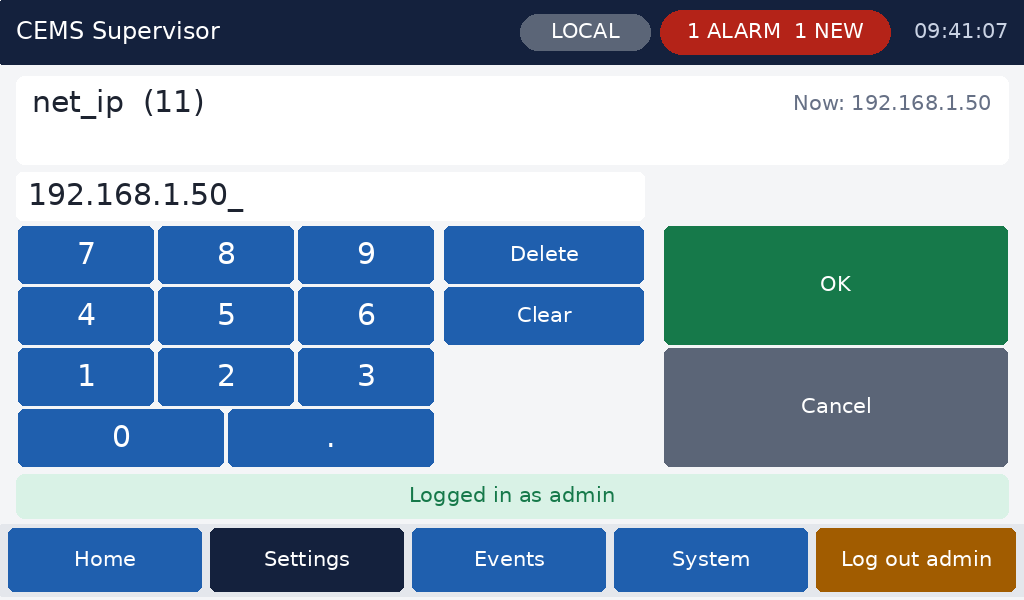
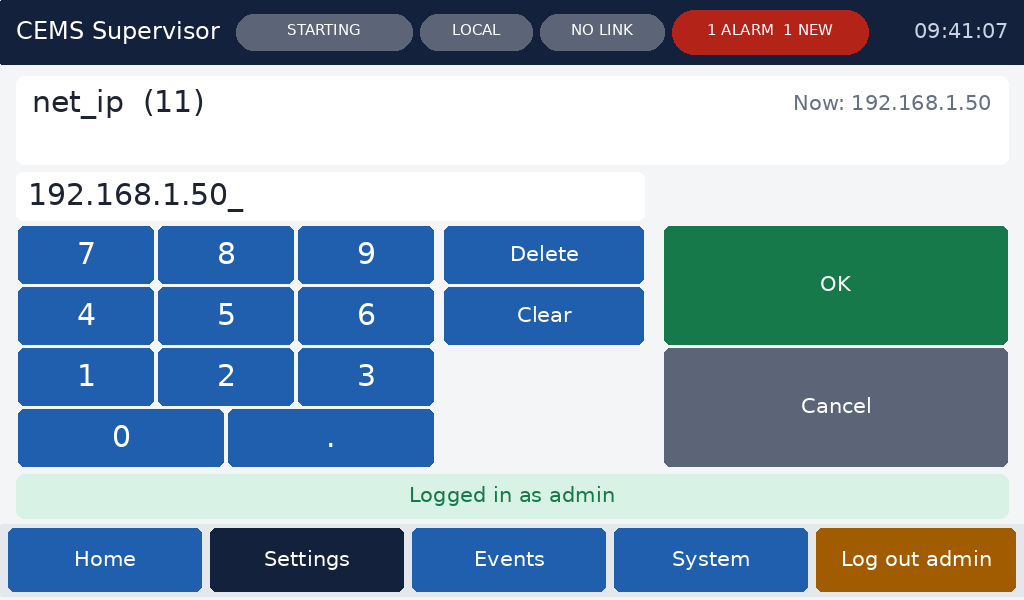
Touchscreen: instrument state, supervisory link and value quality (CIP-21.2, 21.4, 21.5)
Header (UI_CONVENTIONS 3): the state pill (plat_state_name, coloured by
state), LOCAL/REMOTE, LINK OK / LINK LOST / NO LINK from plat_link_age_ms
against comms_timeout, then the alarm pill and the clock.

Values (UI_CONVENTIONS 4): home tiles, settings rows and application value
widgets ask param_quality(); a value that is not valid is greyed ("----"
when unavailable) with its quality word under it in the word's colour.

t_state_quality covers READY/MEASURING, unavailable, valid, stale, out of
range, the settings row and the three link states. Screenshots regenerated
for the new header.

Claude-Session: https://claude.ai/code/session_01AbDXgecyAmn6R8hhL7qjD2

Changed region(s): [[0.2188, 0.0, 0.875, 0.09]]

diff --git a/platform/ui/ui.c b/platform/ui/ui.c
@@ -21,6 +21,7 @@
 #include "plat_health.h"
 #include "ui_app.h"
 #include "iobus.h"
+#include "plat_state.h"
 
 /* ---------------- layout and colours (1024 x 600) ---------------- */
 #define W 1024
@@ -616,16 +617,57 @@ static void button(uint8_t tag, int16_t x, int16_t y, int16_t w, int16_t h, cons
     eve_tag(E, 0);
 }
 
+/* UI_CONVENTIONS 3 and 4: the instrument state, the supervisory link and a value's quality */
+static uint32_t state_color(uint8_t st) {
+    switch (st) {
+    case PLAT_ST_READY: case PLAT_ST_MEASURING: return C_OK;
+    case PLAT_ST_WARMING_UP: case PLAT_ST_MAINTENANCE: case PLAT_ST_CALIBRATION: return C_WARN;
+    case PLAT_ST_FAULT: case PLAT_ST_SAFE_MODE: return C_BAD;
+    default: return 0x5B6577u;
+    }
+}
+enum { LINK_NONE, LINK_OK, LINK_LOST };
+static int link_state(uint32_t now) {
+    plat_val_t v;
+    uint32_t to = param_read(PARAM_ID_COMMS_TIMEOUT_S, &v) ? v.u : 0u, age = plat_link_age_ms(now);
+    if (!to || age == UINT32_MAX) return LINK_NONE;
+    return age > to * 1000u ? LINK_LOST : LINK_OK;
+}
+static uint32_t q_color(uint8_t q) {
+    return q == PLAT_Q_RANGE || q == PLAT_Q_FAULT ? C_BAD : q == PLAT_Q_UNAVAILABLE ? C_GREY : C_WARN;
+}
+/* A shown value with its quality, centred on cy: when it is not valid the number is greyed
+ * ("----" when unavailable) and moves up, with the quality word under it. idx: UW_NO_INDEX
+ * (= PLAT_MEAS_NO_INDEX) for a scalar. */
+static void qvalue(int16_t x, int16_t cy, int16_t f, uint16_t id, uint16_t idx, const char *v) {
+    uint8_t q = param_quality(id, idx);
+    if (q == PLAT_Q_VALID) { color(C_INK); text(x, cy, f, OPT_CENTERY, v); return; }
+    int16_t hv = f == F_HUGE ? 49 : f == F_BIG ? 36 : 25;          /* the ROM fonts' cell heights */
+    int16_t vc = (int16_t)(cy - 11);
+    color(C_GREY); text(x, vc, f, OPT_CENTERY, q == PLAT_Q_UNAVAILABLE ? "----" : v);
+    color(q_color(q)); text(x, (int16_t)(vc + hv / 2 + 11), f >= F_BIG ? F_TEXT : F_SMALL, OPT_CENTERY, plat_quality_name(q));
+}
+
 static void header(uint32_t now) {
     box(0, 0, W, HEAD_H, C_HEAD, 1);
     color(0xFFFFFFu);
     text(16, HEAD_H / 2, 29, OPT_CENTERY, U.cfg && U.cfg->product ? U.cfg->product : "CEMS Supervisor");
-    bool remote = param_ctrl_mode() == PARAM_MODE_REMOTE;
-    int16_t x = 520;
-    box(x, 14, 130, 36, remote ? C_OK : 0x5B6577u, 18);
+    uint8_t st = plat_state();
+    int16_t x = 236;
+    box(x, 14, 176, 36, state_color(st), 18);
     color(0xFFFFFFu);
-    text((int16_t)(x + 65), 32, F_TEXT, OPT_CENTER, remote ? "REMOTE" : "LOCAL");
-    x = (int16_t)(x + 140);
+    text((int16_t)(x + 88), 32, F_SMALL, OPT_CENTER, plat_state_name(st));
+    x = (int16_t)(x + 184);
+    bool remote = param_ctrl_mode() == PARAM_MODE_REMOTE;
+    box(x, 14, 112, 36, remote ? C_OK : 0x5B6577u, 18);
+    color(0xFFFFFFu);
+    text((int16_t)(x + 56), 32, F_SMALL, OPT_CENTER, remote ? "REMOTE" : "LOCAL");
+    x = (int16_t)(x + 120);
+    int ls = link_state(now);
+    box(x, 14, 124, 36, ls == LINK_OK ? C_OK : ls == LINK_LOST ? C_BAD : 0x5B6577u, 18);
+    color(0xFFFFFFu);
+    text((int16_t)(x + 62), 32, F_SMALL, OPT_CENTER, ls == LINK_OK ? "LINK OK" : ls == LINK_LOST ? "LINK LOST" : "NO LINK");
+    x = (int16_t)(x + 132);
     alarm_summary_t as;
     alarm_summary(&as);
     if (as.shown) {                                   /* one pill for every alarm: tap for the list */
@@ -634,15 +676,14 @@ static void header(uint32_t now) {
         else snprintf(a, sizeof a, "%u ALARM%s", as.active, as.active == 1 ? "" : "S");
         uint32_t c = !as.worst_unacked ? 0x5B6577u : as.worst >= AL_SEV_ALARM ? C_BAD : as.worst == AL_SEV_WARNING ? C_WARN : 0x5B6577u;
         eve_tag(E, T_ALARMS);
-        box(x, 10, 230, 44, U.pressed == T_ALARMS ? C_PRESS : c, 22);
-        color(0xFFFFFFu); text((int16_t)(x + 115), 32, F_TEXT, OPT_CENTER, a);
+        box(x, 10, 196, 44, U.pressed == T_ALARMS ? C_PRESS : c, 22);
+        color(0xFFFFFFu); text((int16_t)(x + 98), 32, F_SMALL, OPT_CENTER, a);
         eve_tag(E, 0);
     }
     char t[16];
     snprintf(t, sizeof t, "%02u:%02u:%02u", RTC_Time.Hours, RTC_Time.Minutes, RTC_Time.Seconds);
     color(0xC9D2E3u);
     text(W - 16, HEAD_H / 2, F_TEXT, OPT_CENTERY | OPT_RIGHTX, RTC_Date.Year >= 2000 ? t : "--:--:--");
-    (void)now;
 }
 
 static void nav(void) {
@@ -671,8 +712,7 @@ static void draw_home(void) {
         text((int16_t)(x + 16), (int16_t)(y + 12), F_TEXT, 0, d ? d->name : "?");
         char v[64] = "-";
         if (d) fmt_value(d, v, sizeof v);
-        color(C_INK);
-        text((int16_t)(x + 16), (int16_t)(y + 56), F_HUGE, 0, v);
+        qvalue((int16_t)(x + 16), (int16_t)(y + 81), F_HUGE, c->home_ids[k], UW_NO_INDEX, v);
     }
     int16_t y = (int16_t)(BODY_Y + (n > 3 ? 280 : n ? 140 : 10));
     box(16, y, 992, 110, C_CARD, 8);
@@ -703,7 +743,7 @@ static void draw_params(void) {
         color(C_INK);  text(110, (int16_t)(y + ROW_H / 2), F_TEXT, OPT_CENTERY, d->name);
         fmt_value(d, b, sizeof b);
         if (strlen(b) > 22) strcpy(b + 19, "...");
-        text(440, (int16_t)(y + ROW_H / 2), F_TEXT, OPT_CENTERY, b);
+        qvalue(440, (int16_t)(y + ROW_H / 2), F_TEXT, d->id, UW_NO_INDEX, b);
         color(can ? C_ACCENT : C_GREY);
         text(880, (int16_t)(y + ROW_H / 2), F_SMALL, OPT_CENTERY | OPT_RIGHTX, can ? "Change >" : (d->flags & PF_RO) ? "read only" : (d->flags & PF_DEV) ? "developer" : lvl_name(d->level));
         eve_tag(E, 0);
@@ -1308,7 +1348,8 @@ static void draw_app(void) {
             char v[64] = "-";
             if (d) { if (w->index != UW_NO_INDEX) fmt_elem(d, w->index, v, sizeof v); else fmt_value(d, v, sizeof v); }
             if (strlen(v) > 14) strcpy(v + 11, "...");
-            color(C_INK); text((int16_t)(x + 12), (int16_t)(y + 36), F_BIG, 0, v);
+            if (d) qvalue((int16_t)(x + 12), (int16_t)(y + 56), F_BIG, d->id, w->index, v);
+            else { color(C_INK); text((int16_t)(x + 12), (int16_t)(y + 56), F_BIG, OPT_CENTERY, v); }
             if (can) { color(C_ACCENT); text((int16_t)(x + wdt - 10), (int16_t)(y + 8), F_SMALL, OPT_RIGHTX, ">"); }
             eve_tag(E, 0);
         } else if (w->kind == UW_RECORD) {

diff --git a/tests/test_ui.c b/tests/test_ui.c
@@ -24,6 +24,7 @@
 #include "plat_clock.h"
 #include "iobus.h"
 #include "iob_node_sim.h"
+#include "plat_state.h"
 
 static eve_sim_t sim;
 static eve_t eve;
@@ -441,6 +442,50 @@ static void t_ui(void) {
     fw_reset_for_test();
 }
 
+/* CIP-21.2, 21.4, 21.5: the state and link pills in the header; a value's quality on the home
+ * tile and the settings row (UI_CONVENTIONS 3, 4) */
+static const plat_meas_def_t ui_meas[] = {
+    { .id = 1002, .index = PLAT_MEAS_NO_INDEX, .max_age_ms = 1000, .lo = 0.0f, .hi = 1000.0f },
+};
+static void st_scan(void) { plat_state_scan(bsp_ms()); param_publish(); frame(); }   /* measurements are stamped by bsp_ms() */
+static void t_state_quality(void) {
+    setup();
+    plat_state_reset_for_test();
+    CHECK_EQ(plat_state_init(ui_meas, 1), 0);
+    a_run = 12;
+    st_scan();
+    CHECK(shows("READY"));                            /* not measuring: readings unavailable */
+    CHECK(shows("NO LINK"));
+    CHECK(shows("----")); CHECK(shows("unavailable")); CHECK(!shows("12 s"));
+    plat_app_state(PLAT_ST_MEASURING);
+    st_scan();
+    CHECK(shows("MEASURING"));
+    CHECK(shows("unavailable"));                      /* measuring, but never updated */
+    plat_meas_update(0, PLAT_Q_VALID);
+    st_scan();
+    CHECK(shows("12 s")); CHECK(!shows("unavailable")); CHECK(!shows("stale"));
+    dump("home_measuring");
+    bsp_host_advance_ms(1500);                        /* not updated within max_age_ms */
+    st_scan();
+    CHECK(shows("12 s")); CHECK(shows("stale"));
+    a_run = 5000; plat_meas_update(0, PLAT_Q_VALID);
+    st_scan();
+    CHECK(shows("out of range"));
+    CHECK(tap("Settings"));
+    CHECK(row("run_seconds"));                        /* the settings row carries it too */
+    CHECK(tap("Home"));
+    CHECK(shows("out of range"));
+    /* the supervisory link: a web or Modbus request, then quiet for longer than comms_timeout (10 s) */
+    param_comms_activity(PLAT_SRC_WEB, now);
+    st_scan();
+    CHECK(shows("LINK OK"));
+    now += 10500;
+    st_scan();
+    CHECK(shows("LINK LOST"));
+    dump("home_quality");
+    plat_state_reset_for_test();
+}
+
 /* System -> I/O boards: board states, lit outputs and inputs, faults in words */
 static void iob_run(uint32_t ms) {
     for (uint32_t t = 0; t < ms; t += 20) {
@@ -523,4 +568,5 @@ void test_ui_all(void) {
     RUN(t_fonts);
     RUN(t_ui);
     RUN(t_iob_screen);
+    RUN(t_state_quality);
 }
